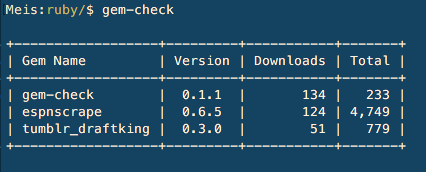
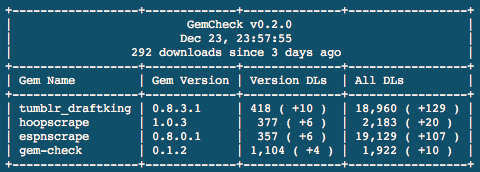
v0.2.0 - Update indicator; More informative display

Changed region(s): [[0.0, 0.0, 1.0, 0.9884], [0.9765, 0.1163, 1.0, 0.3488], [0.9765, 0.436, 1.0, 0.4942]]

diff --git a/lib/gem-check.rb b/lib/gem-check.rb
@@ -5,151 +5,75 @@ require 'terminal-table'
 require 'open-uri'
 require 'json'
 require 'date'
-require_relative 'version'
+require_relative 'gem-check/version'
+require_relative 'gem-check/cli'
+require_relative 'gem-check/helpers'
 
 module GemCheck
-  HEADINGS = ['Gem Name', 'Version', 'Downloads', 'Total', 'New DLs']
-  C_NAME = 0
-  C_VER  = 1
-  C_VDL  = 2
-  C_TDL  = 3
-  C_NDL  = 4
-  @@update_version = nil
-  @@current_stats  = nil
-  @@previous_stats = []
-  @@previous_date  = Time.now
-  @@f_previous_stats = File.join Dir.home, 'gem-check.json'
 
-  def gem_check
+  class Checker
+    URL_GEMCHECK_INFO_JSON = 'https://rubygems.org/api/v1/versions/gem-check.json'
+    INFO_FILENAME          = 'gem-check.json'
 
-    read_previous_info
-    print_header
-    print_table
-    # store_gem_info
-  end
+    REPORT_HEADINGS = ['Gem Name', 'Gem Version', 'Version DLs', 'All DLs']
+    COL_NAME = 0 # Gem Name
+    COL_VER  = 1 # Version
+    COL_VDL  = 2 # Version DLs
+    COL_TDL  = 3 # Total DLs
 
-  def print_header
-    puts
-    puts "#{version_string}#{update_status_string}"
-    puts "Current: #{current_date_string}#{last_run}"
-  end
-
-  def commafy(x)
-    i,d = x.to_s.split('.')
-    i.gsub(/(\d)(?=\d{3}+$)/,'\\1,') + (d ? ('.'+d) : '')
-  end
-
-  def decommafy(x)
-    return x unless x.class.eql? String
-    x.delete(',')
-  end
-
-  def current_gem_info
-    @@current_stats = []
-    Gems.gems.map do |x|
-      x = OpenStruct.new(x)
-      val = [x.name, x.version, commafy(x.version_downloads), commafy(x.downloads), 0]
-      @@current_stats << val
-      val
-    end
-  end
-
-  def build_table
-    rows  = current_gem_info.sort!{|a, b| b[2].to_i <=> a[2].to_i}
-    rows  = calculate_new_downloads(rows)
-    table = Terminal::Table.new(rows: rows)
-    table.headings = GemCheck::HEADINGS
-    [1  ].each{ |col| table.align_column(col, :left)  }
-    [2,3].each{ |col| table.align_column(col, :right) }
-    [4  ].each{ |col| table.align_column(col, :center) }
-    table
-  end
-
-  def version_string
-    "GemCheck v#{GemCheck::VERSION}"
-  end
-
-  def calculate_new_downloads(latest_info)
-    return latest_info if @@previous_stats.empty?
-    latest_info.map do |row|
-      prev_info = search_by_column(@@previous_stats, C_NAME, row[C_NAME])
-      prev_info = search_by_column(prev_info,        C_VER,  row[C_VER])
-      return row if prev_info.empty?
-      prev_info = prev_info.first
-      row[C_NDL] = decommafy(row[C_TDL]).to_i - decommafy(prev_info[C_TDL]).to_i
-      row
+    def initialize(args=[])
+      @new_downloads    = 0
+      @update_version   = nil
+      @current_stats    = nil
+      @previous_stats   = []
+      @previous_date    = Time.now
+      @f_previous_stats = File.join(Dir.home, INFO_FILENAME)
+      @args = args
     end
 
-  end
+    def check
+      read_previous_info
+      print_table(build_table)
+      store_new_info unless @args.include?('-f')
+    end
 
-  def search_by_column(array, column, search_string)
-    # puts "Col: #{column}, Query: #{search_string}\nArray: \n\t#{array}\n\n"
-    return array if array.empty?
-    array.select{ |r| r[column].eql? search_string }
-  end
+    # Read stored gem info
+    def read_previous_info
+      return unless File.exist? @f_previous_stats
+      f = File.read(@f_previous_stats)
+      @previous_date  = Time.parse(f.lines.first.chomp) || nil
+      @previous_stats = []
+      f.lines.drop(1).each { |line| @previous_stats << clean_stat_line(line)}
+      @previous_stats
+    end
 
-  def update_available?
-    versions = open('https://rubygems.org/api/v1/versions/gem-check.json').read
-    @@update_version = JSON.parse(versions, object_class: OpenStruct).first.number
-    @@update_version != GemCheck::VERSION
-  end
+    def build_table
+      rows  = current_gem_info.sort!{|a, b| b[2].to_i <=> a[2].to_i}
+      rows  = add_new_download_info(rows)
+      table = Terminal::Table.new(rows: rows)
+      table.title    = header_string
+      table.headings = REPORT_HEADINGS
+      [1  ].each{ |col| table.align_column(col, :left)  }
+      [2,3].each{ |col| table.align_column(col, :center) }
+      table
+    end
 
-  def update_status_string
-    update_available? ? " [ v#{@@update_version} available! ]" : nil
-  end
+    # Display
+    def print_table(table)
+      puts "\n#{table}\n\n"
+    end
 
-  def current_date_string
-    Time.now.strftime("%b %d, %H:%M:%S")
-  end
-
-  def print_table
-    puts build_table
-    puts
-  end
-
-  # Store latest gem info
-  def store_gem_info
-    File.open(@@f_previous_stats, 'w') do |file|
-      file.write "#{current_date_string}\n"
-      @@current_stats.each do |row|
-        row.each_with_index do |col, idx|
-          row[idx] = decommafy(row[idx]).to_i if idx > 1
+    # Save newest gem info to file @f_previous_stats
+    def store_new_info
+      File.open(@f_previous_stats, 'w') do |file|
+        file.write "#{current_date_string}\n"
+        @current_stats.each do |row|
+          row.each_with_index do |col, idx|
+            row[idx] = decommafy(row[idx]).to_i if idx > 1
+          end
+          file.write row.to_json + "\n"
         end
-        file.write row.to_json + "\n"
       end
     end
   end
-
-  # Read stored gem info
-  def read_previous_info
-    return unless File.exist? @@f_previous_stats
-    f = File.read(@@f_previous_stats)
-    @@previous_date = Time.parse(f.lines.first.chomp) || nil
-    @@previous_stats = []
-    f.lines.drop(1).each { |x| @@previous_stats << x.chomp.delete("\\\"").delete('[').delete(']').split(',').to_a}
-  end
-
-  # adapted from https://stackoverflow.com/a/195894
-  def last_run
-    t_diff = @@previous_date ? (Time.now - @@previous_date).to_i : nil
-    msg =
-      case t_diff
-      when nil then nil
-      when 0 then 'just now'
-      when 1 then 'a second ago'
-      when 2..59 then t_diff.to_s+' seconds ago'
-      when 60..119 then 'a minute ago' #120 = 2 minutes
-      when 120..3540 then (t_diff/60).to_i.to_s+' minutes ago'
-      when 3541..7100 then 'an hour ago' # 3600 = 1 hour
-      when 7101..82800 then ((t_diff+99)/3600).to_i.to_s+' hours ago'
-      when 82801..172000 then 'a day ago' # 86400 = 1 day
-      when 172001..518400 then ((t_diff+800)/(60*60*24)).to_i.to_s+' days ago'
-      when 518400..1036800 then 'a week ago'
-      else ((t_diff+180000)/(60*60*24*7)).to_i.to_s+' weeks ago'
-      end
-
-    msg ? " | Last run: #{msg}" : ''
-  end
-
-
 end

diff --git a/lib/gem-check/helpers.rb b/lib/gem-check/helpers.rb
@@ -1,0 +1,64 @@
+module GemCheck
+  class Checker
+    private
+
+    # File I/O
+    def clean_stat_line(line)
+      chars_to_filter = %w(\\\" [ ])
+      line.chomp!
+      chars_to_filter.each { |c| line.delete!(c) }
+      line.split(',')
+    end
+
+    def current_date_string
+      Time.now.strftime("%b %d, %H:%M:%S")
+    end
+
+    # Gems API
+    def current_gem_info
+      @current_stats = []
+      Gems.gems.map do |x|
+        x = OpenStruct.new(x)
+        val = [x.name, x.version, commafy(x.version_downloads), commafy(x.downloads)]
+        @current_stats << val
+        val
+      end
+    end
+
+    # Features
+    def add_new_download_info(latest_info)
+      return latest_info if @previous_stats.empty?
+      latest_info.map do |row|
+        prev_info = search_by_column(@previous_stats, COL_NAME, row[COL_NAME])
+        prev_info = search_by_column(prev_info,       COL_VER,  row[COL_VER])
+        return row if prev_info.empty?
+        prev_info = prev_info.first
+        calc_new_downloads(COL_TDL, row, prev_info)
+        calc_new_downloads(COL_VDL, row, prev_info)
+        row
+      end
+    end
+
+    def calc_new_downloads(idx, row, info)
+      new_dls = decommafy(row[idx]).to_i - decommafy(info[idx]).to_i
+      @new_downloads += new_dls
+      row[idx] = new_dls > 0 ? "#{row[idx]} ( +#{commafy(new_dls)} )" : row[idx]
+    end
+
+    # Utils
+    def search_by_column(table, column, search_s)
+      return table if table.empty?
+      table.select{ |r| r[column].eql?(search_s) }
+    end
+
+    # Maintanence
+    def update_available?
+      versions = open(URL_GEMCHECK_INFO_JSON).read
+      @update_version = JSON.parse(versions, object_class: OpenStruct).first.number
+      @update_version > GemCheck::VERSION
+    end
+
+
+
+  end
+end

diff --git a/lib/gem-check/cli.rb b/lib/gem-check/cli.rb
@@ -1,0 +1,56 @@
+module GemCheck
+  class Checker
+    def self.show_help
+      puts
+      puts "GemCheck v#{GemCheck::VERSION} - Help"
+      puts "\n  Flags:\n"
+      puts "    -f   Don't save the updated stats for this run."
+      puts "    -h   Display this help screen."
+      puts
+    end
+
+    private
+
+    def commafy(x)
+      i,d = x.to_s.split('.')
+      i.gsub(/(\d)(?=\d{3}+$)/,'\\1,') + (d ? ('.'+d) : '')
+    end
+
+    def decommafy(x)
+      return x unless x.class.eql?(String)
+      x.delete(',')
+    end
+
+    def update_status_string
+      update_available? ? "\n [ Update available: v#{@update_version} ]" : nil
+    end
+
+    def header_string
+      "GemCheck v#{GemCheck::VERSION}#{update_status_string}\n"+
+      "#{current_date_string}\n"+
+      "#{last_run}"
+    end
+
+    # adapted from https://stackoverflow.com/a/195894
+    def last_run
+      time_diff = @previous_date ? (Time.now - @previous_date).to_i : nil
+      time_words =
+      case time_diff
+      when nil then nil
+      when 0 then 'just now'
+      when 1 then 'a second ago'
+      when 2..59 then time_diff.to_s+' seconds ago'
+      when 60..119 then 'a minute ago' #120 = 2 minutes
+      when 120..3540 then (time_diff/60).to_i.to_s+' minutes ago'
+      when 3541..7100 then 'an hour ago' # 3600 = 1 hour
+      when 7101..82800 then ((time_diff+99)/3600).to_i.to_s+' hours ago'
+      when 82801..172000 then 'a day ago' # 86400 = 1 day
+      when 172001..518400 then ((time_diff+800)/(60*60*24)).to_i.to_s+' days ago'
+      when 518400..1036800 then 'a week ago'
+      else ((time_diff+180000)/(60*60*24*7)).to_i.to_s+' weeks ago'
+      end
+
+      time_words ? "#{commafy(@new_downloads)} downloads since #{time_words}" : ''
+    end
+  end
+end

diff --git a/lib/gem-check/version.rb b/lib/gem-check/version.rb
@@ -1,3 +1,3 @@
 module GemCheck
-  VERSION = "0.2.0"
+  VERSION = '0.2.0'
 end

diff --git a/README.md b/README.md
@@ -9,11 +9,31 @@ A simple ruby utility to see the download count for your owned gems.
 
 ## Usage
 
-Create your gem credentials file as described on [rubygems.org](https://rubygems.org/profile/edit)
+First, create your gem credentials file as described on [rubygems.org](https://rubygems.org/profile/edit)
 ```
 $ gem-check
 ```
-![gem-check](./gem-check.png)
+![gem-check](./gem-check.png)  
+
+### Options  
+
+| Flag | Description|
+| :--- | :---:  |
+| -f | Don't save the updated stats for this run.  |
+| -h | Display the help screen.  |  
+
+### Note  
+  Gem stats data stored in ~/gem-check.json  
+
+### Display
+
+| Column | Description |
+| :--- | :---: |
+| Gem Version | Latest available gem version |
+| Version DLs | Download count for the displayed version of the gem |
+| All DLs | Total gem download count |
+| (+number) | New downloads since last recorded program run |
+
 
 ## Dependencies  
 gems ~> 0.8.3  
